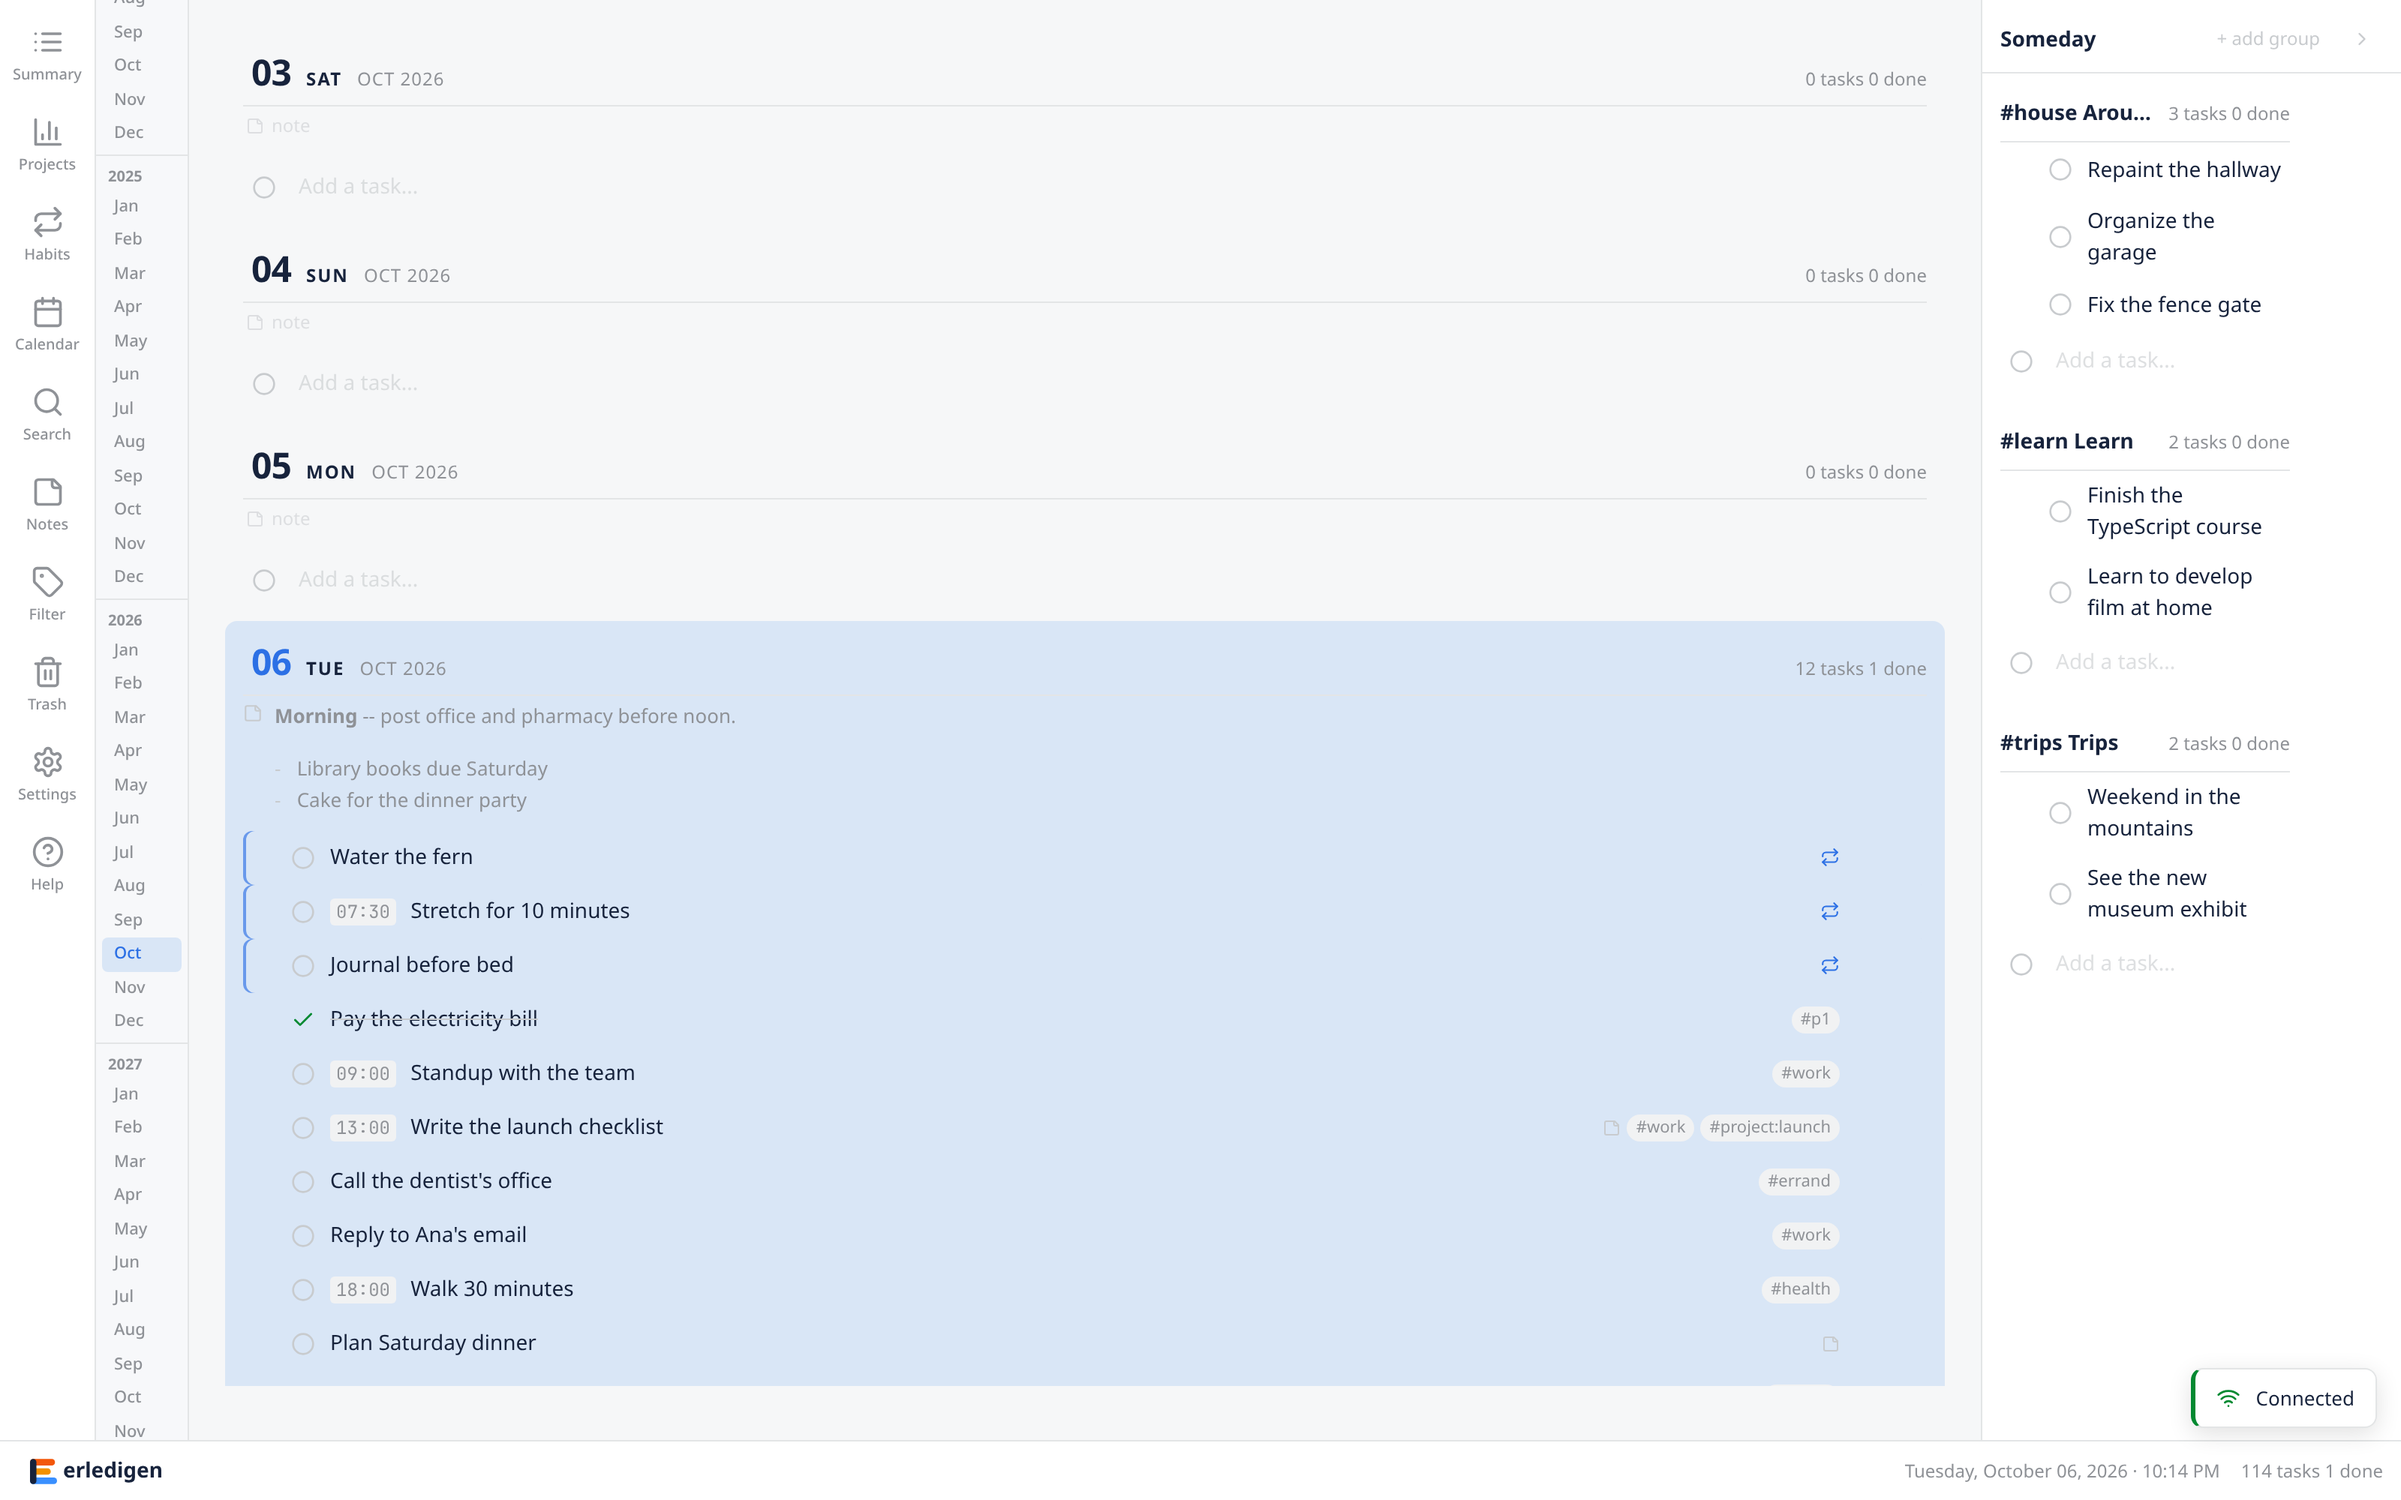
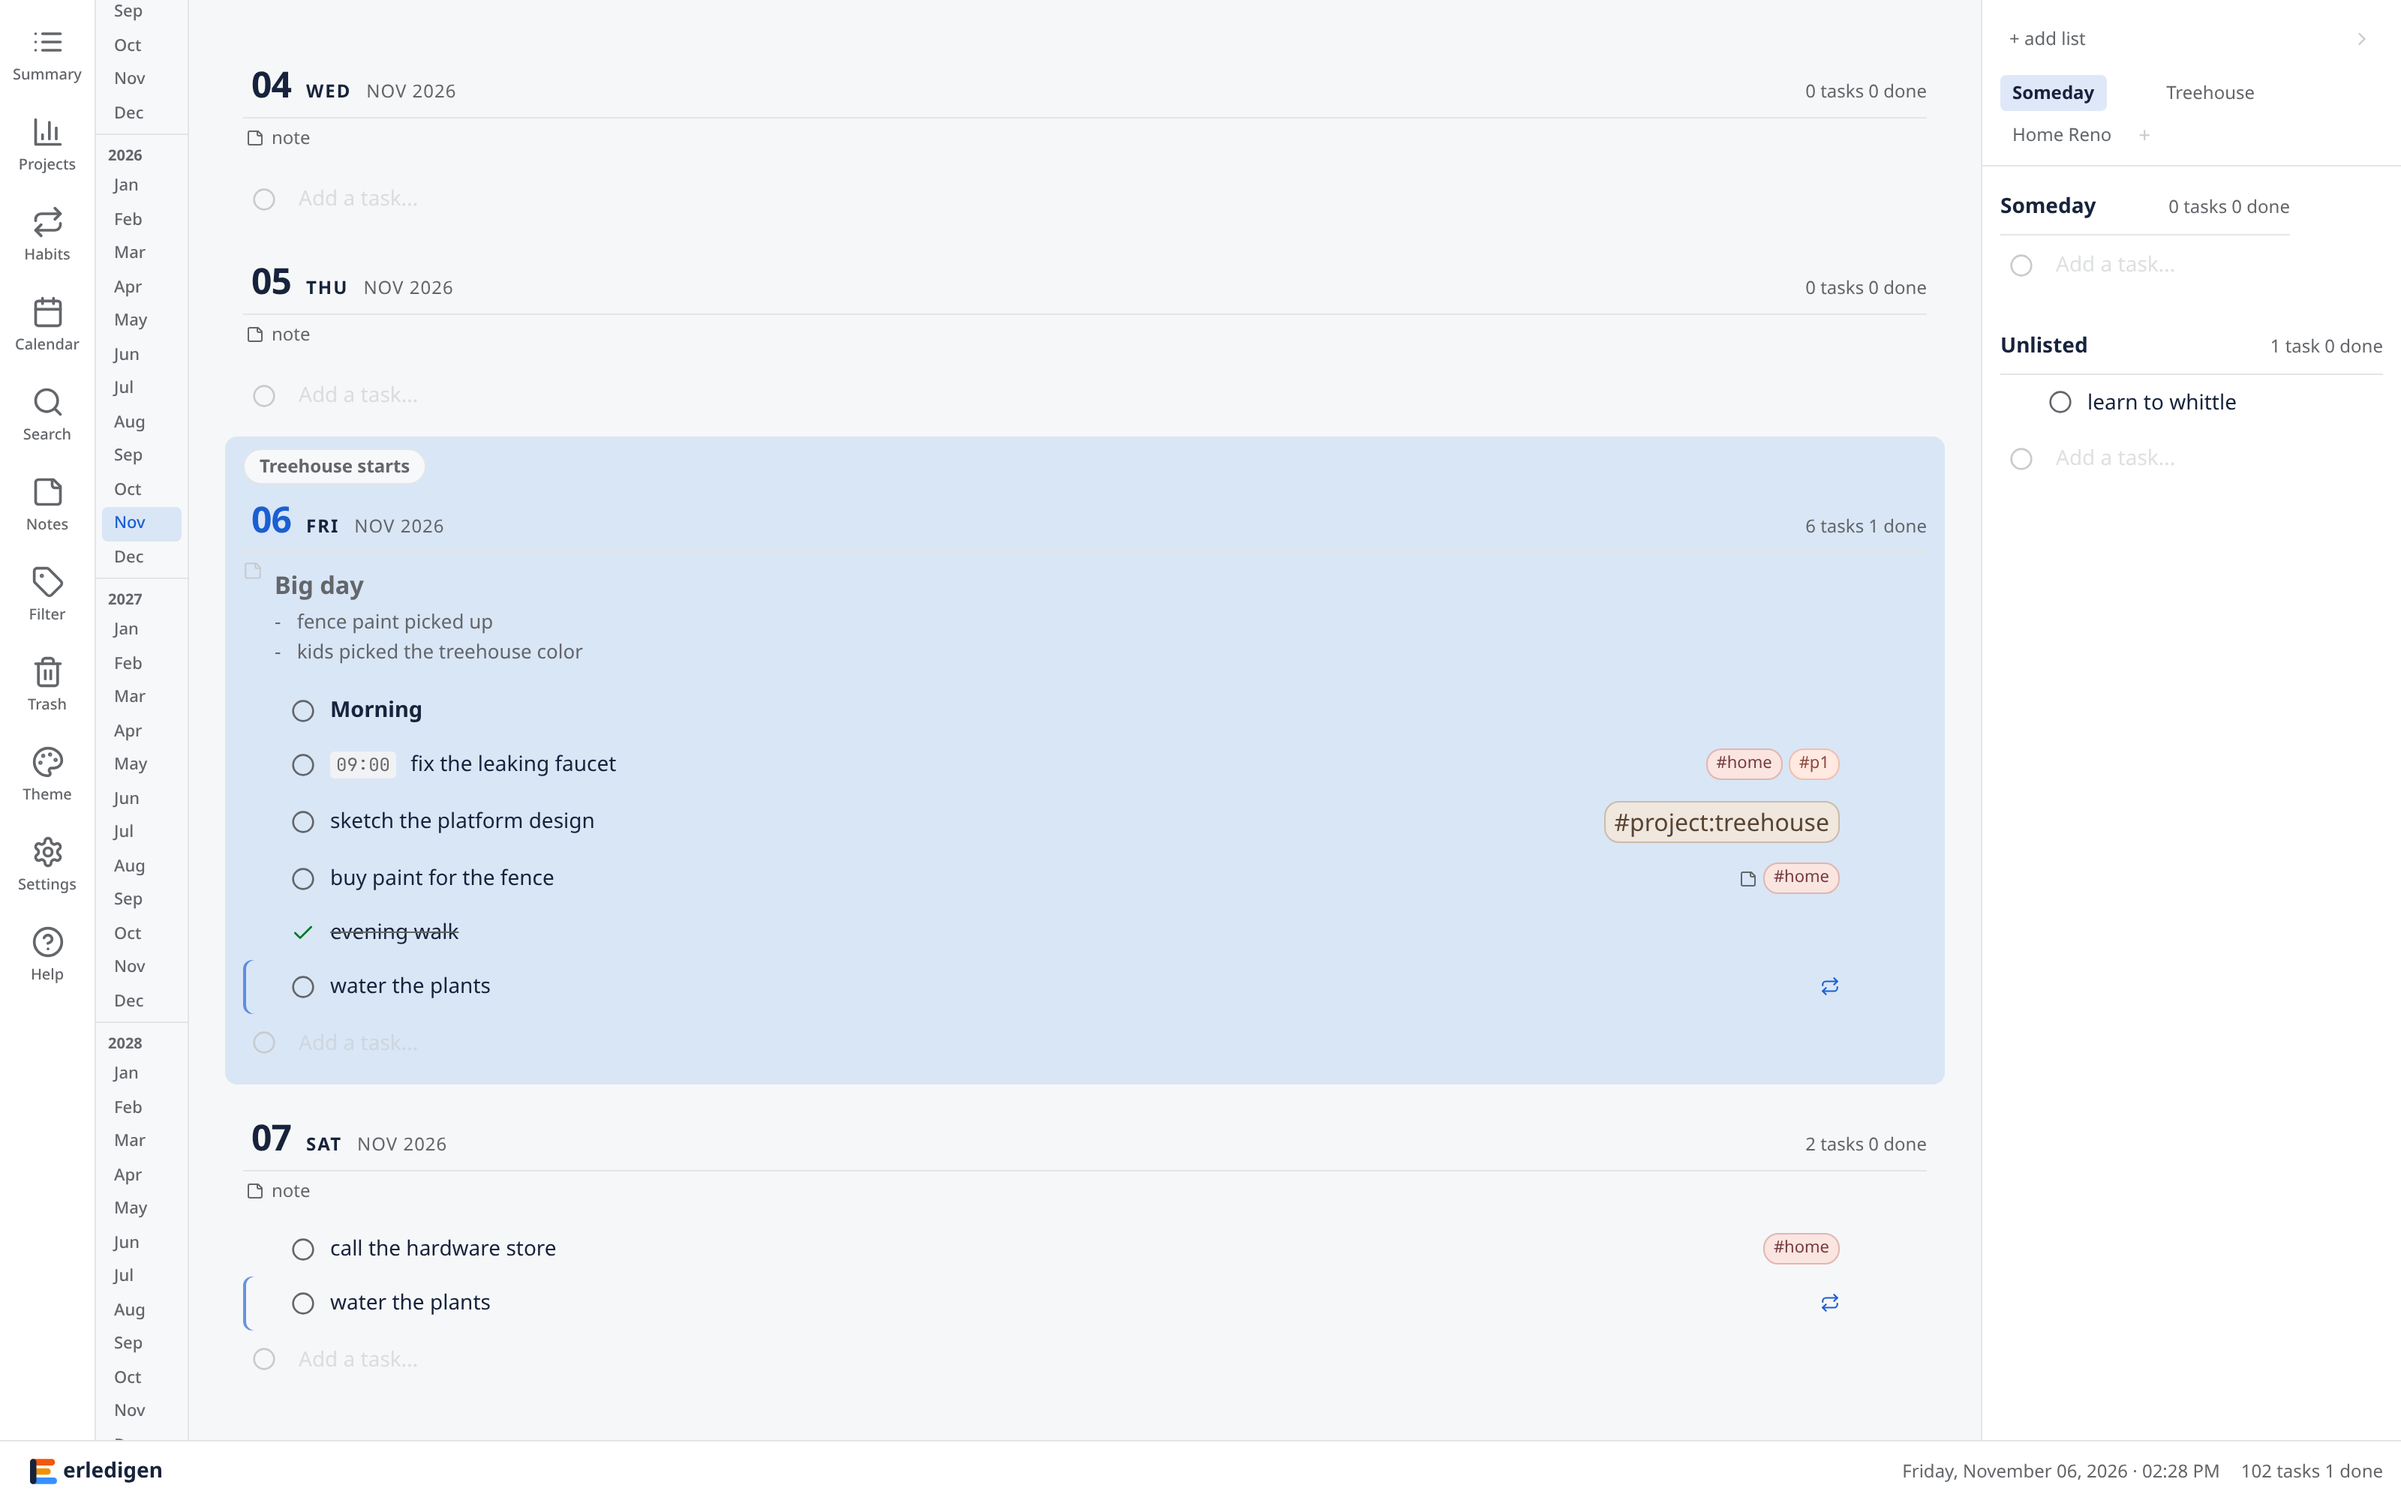
docs: post-release -- ADR-021 lands, v0.16.0 screenshots (#104)
* docs(adr): ADR-021 lands -- the file PR #52 never committed

PR #52 updated the index, roadmap, design.md, and the stories but
the ADR file itself never landed, leaving the index dangling. Written
from the surviving record: #52's commit message (BUILD-5 dropped,
the v2.x arc renumbered, the sanctioned surface narrowing from
'CLI/MCP server' to the CLI alone), the story edits, and the index
entry -- with the provenance stated in the file.

Story: BUILD-4, USE-40

* docs: refresh the app screenshots for the v0.16.0 era

Both images predate v0.16.0: the app has since gained Someday tabs
and lists, the project home, project tag chips, and milestone
banners. Re-captured with the #31/#55 recipe -- an isolated memory
stack (STORAGE_ADAPTER=memory, dies with the run; never real data)
seeded via the REST API, light theme, Someday panel open with its
tab strip visible, today carrying a project chip row and a
'Treehouse starts' milestone banner, 1600x1000 at 2x and the 2:1
social preview -- at identical dimensions to the outgoing pair.

Story: BUILD-2

diff --git a/docs/build/architecture/decisions/ADR-021-cli-only-automation.md b/docs/build/architecture/decisions/ADR-021-cli-only-automation.md
@@ -1,0 +1,78 @@
+# ADR-021: Automation Surface: CLI Only, No MCP Server (supersedes ADR-014's sanctioned "CLI/MCP server" surface)
+
+**Status:** Accepted
+**Date:** 2026-10-07
+
+## Context
+
+"No AI in the UI" is a standing rule (ADR-014's coherence pass): AI
+automation, if it ever ships, lives outside the UI, never in it. At
+the 2026-10-07 planning pass the sanctioned outside-the-UI surface
+was recorded as "CLI/MCP server" -- two surfaces, with the roadmap's
+v2.0.0 arc carrying both stories: BUILD-4 (the CLI) and BUILD-5 (an
+MCP server package for assistant/agent integration).
+
+BUILD-5 asks the maintenance question a second server package always
+asks: build it, secure it, document it, version it -- for a
+single-user, self-hosted, privacy-first product.
+
+## Decision
+
+**The CLI alone is the automation surface.** BUILD-5 (the MCP server
+story) is dropped; the v2.x arc renumbers without it (reminders
+v2.1.0, multi-user auth + PostgreSQL v2.2.0, security hardening
+v2.3.0, SaaS billing v2.4.0, capacity + automation v2.5.0, Canvas
+sync v2.6.0).
+
+1. The CLI (BUILD-4) carries the automation surface: the same
+   natural-language grammar as the app, an interactive TUI mirroring
+   the web shortcut table, and `--format json|plain|csv` for
+   scripting.
+2. An assistant that can run commands has the parity an MCP server
+   would have offered -- no second server package to build, secure,
+   document, and version.
+3. Smart scheduling (USE-40) stays CLI-only with the UI rule: no
+   scheduling intelligence renders in the app.
+4. design.md, BUILD-4, and USE-40 follow the decision.
+
+## Rationale
+
+- The MCP server duplicates a surface the CLI already provides:
+  any agent that could speak to an MCP server can already run a CLI
+  command -- and the CLI has strictly more users (humans) than an
+  MCP endpoint would.
+- A server package is a permanent security and versioning liability
+  (auth surface, protocol churn, release cadence) that a
+  single-user product does not need.
+- One surface means the automation story gets documented once, in
+  one place, with the web UI -- the same grammar everywhere.
+
+## Consequences
+
+### Positive
+
+- One automation surface: the CLI, with the app's own grammar.
+- The v2.x arc focuses on the hosted-services essentials (auth,
+  hardening, billing) instead of protocol plumbing.
+
+### Negative
+
+- Tooling that speaks MCP natively (assistant clients without
+  shell access) must integrate through the CLI or the HTTP API
+  rather than a first-party MCP endpoint.
+
+### Mitigations
+
+- The HTTP API (ADR-024's documented OpenAPI surface) remains the
+  integration point for anything that cannot run the CLI.
+- A future reversal is a new ADR, not an edit to this one.
+
+---
+
+*Provenance: the decision landed in PR #52 (2026-10-07), which
+updated the ADR index, the roadmap, design.md, and the stories --
+but the ADR file itself was never committed, leaving the index
+entry dangling. This file was written on 2026-11-06 from the
+surviving record: PR #52's commit message, the story edits it
+carried, and the index entry, per the repo's rule that ADRs are
+the record for decisions.*
